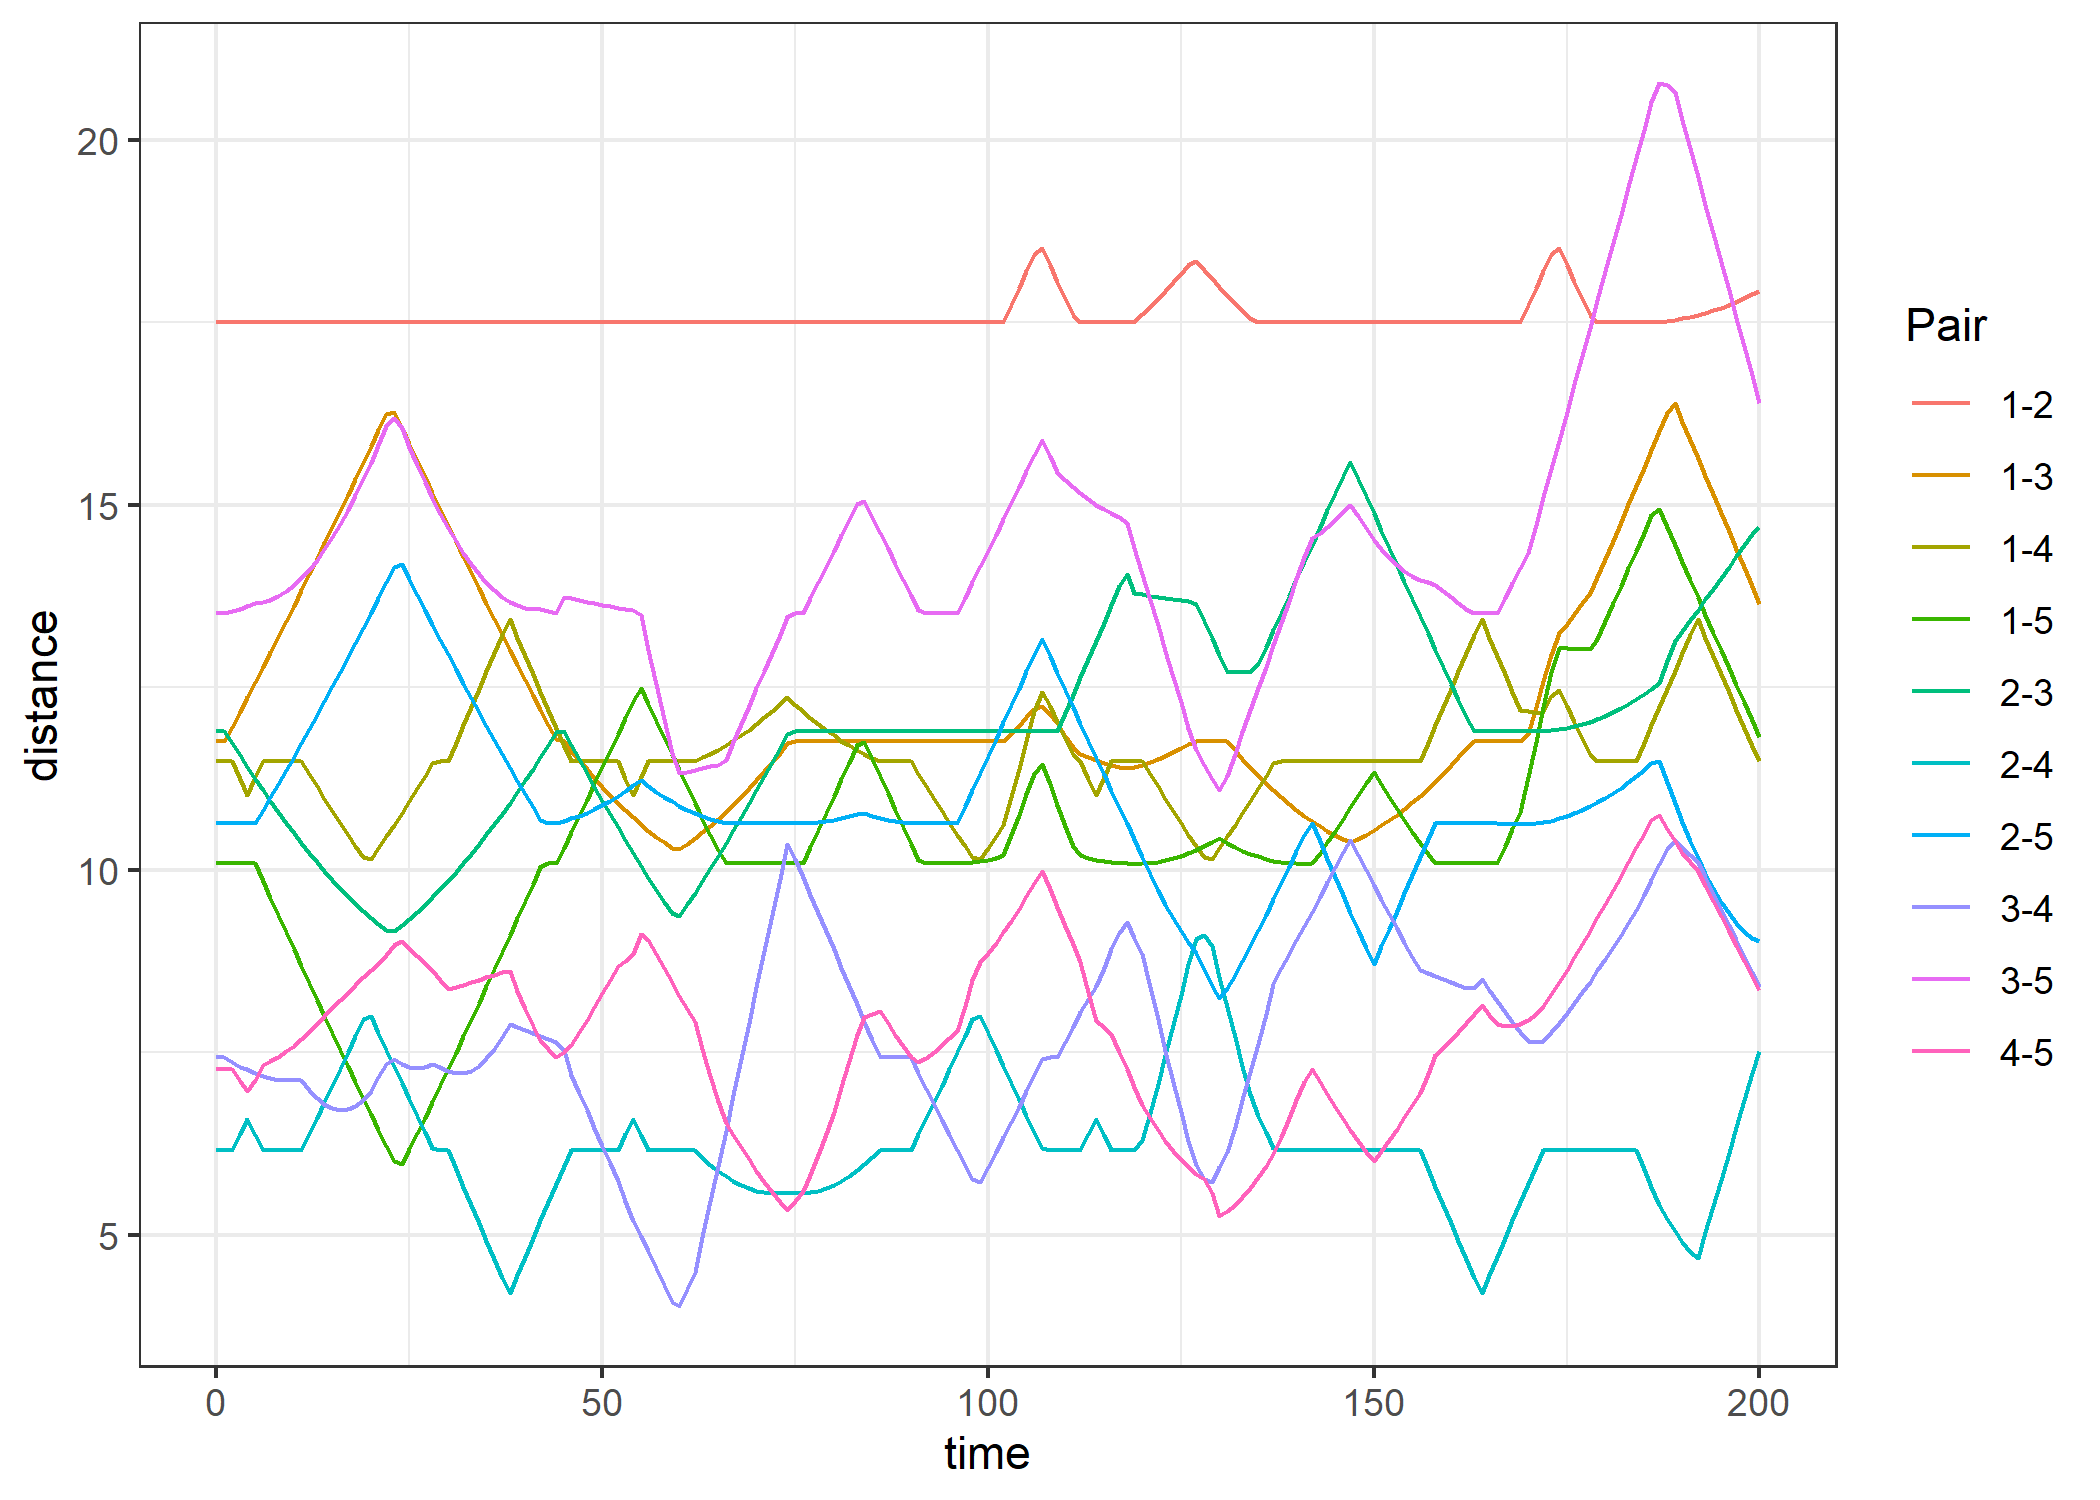
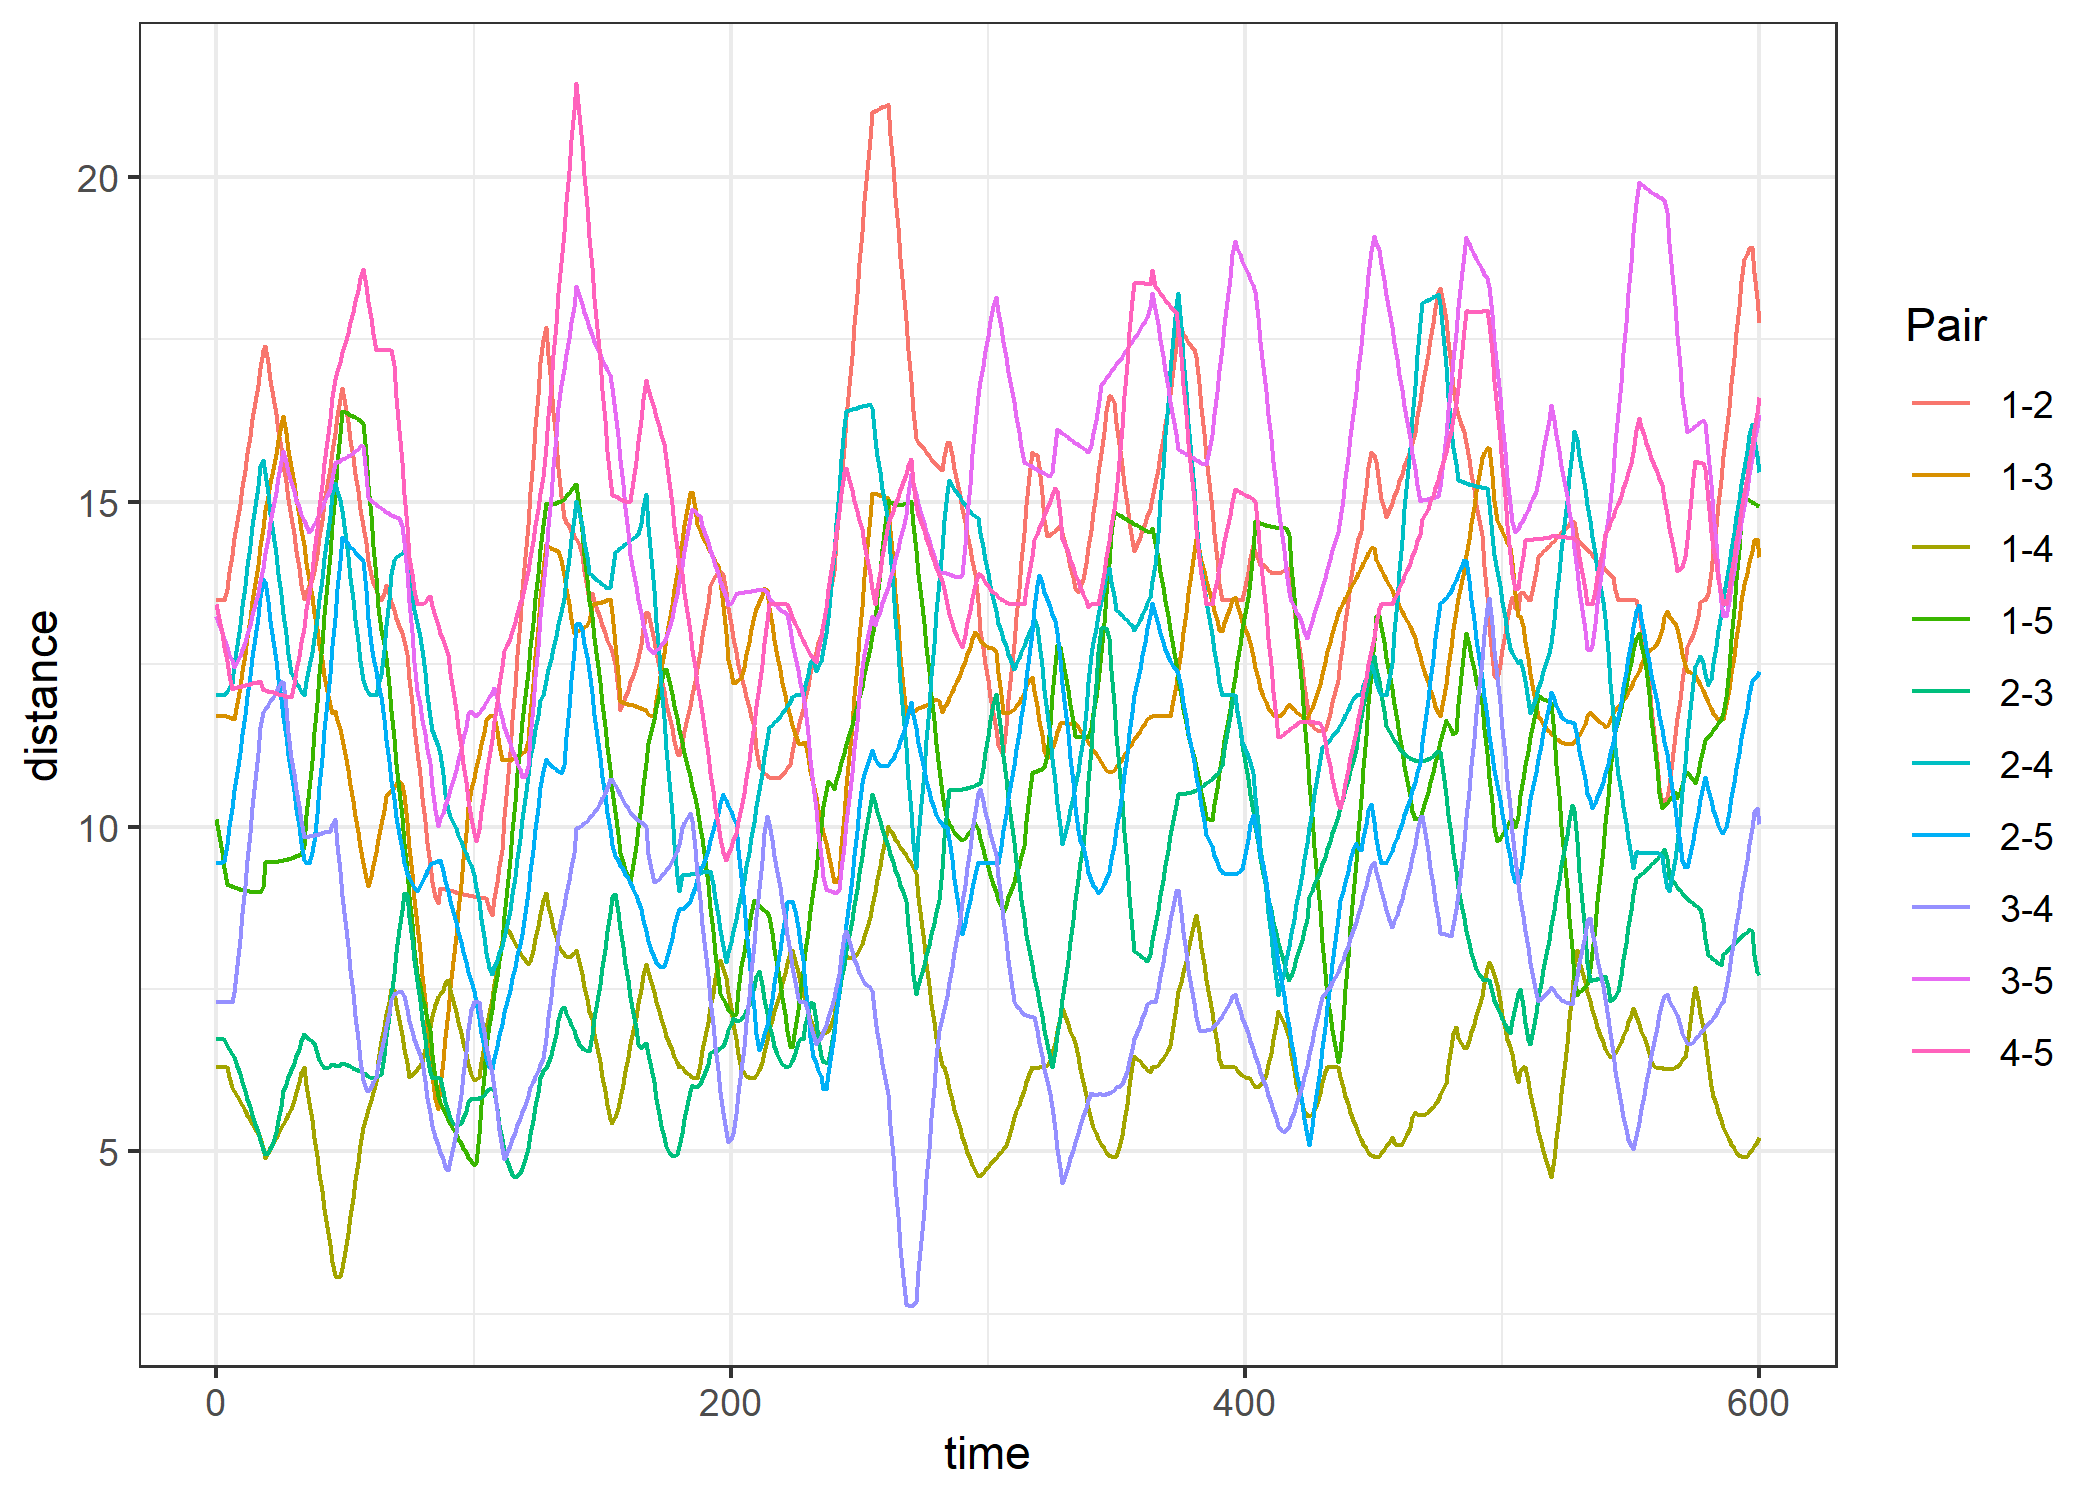
Bug fix for simulation function

diff --git a/README.md b/README.md
@@ -28,7 +28,7 @@ This is a basic example which shows how to generate a problem instance:
 library(zav)
 library(ggplot2)
 
-instance <- generate_2d_instance(no_of_points = 50)
+instance <- generate_2d_instance(no_of_points = 100)
 plot_point(instance = instance)
 ```
 
@@ -48,17 +48,120 @@ Here it is shown how you can make a simulation based on the solution
 just found:
 
 ``` r
+# solution = solution; seed = 1;n_replications = 1;flight = "zoned";max_dist = 1000000;LOS = 600;warmup = 0;speed_agent = .25;verbose = F
 simulation_result <- simulation(
   solution = solution,
   seed = 1,
   n_replications = 1,
   flight = "zoned",
   max_dist = 1000000,
-  LOS = 200,
+  LOS = 600,
   warmup = 0,
   speed_agent = .25,
   verbose = F
 )
+```
+
+``` r
+simulation_result$metrics[[1]]$response_time_performance
+#>    demand_id_handling response_time
+#> 1                  33            12
+#> 2                  37            17
+#> 3                  49            15
+#> 4                  88            16
+#> 5                  27            18
+#> 6                  32            12
+#> 7                  49            15
+#> 8                  12            11
+#> 9                  21            21
+#> 10                 19            13
+#> 11                 97             7
+#> 12                 73             9
+#> 13                  8            20
+#> 14                 19            12
+#> 15                 28            10
+#> 16                 37            17
+#> 17                 31            20
+#> 18                 28             9
+#> 19                 19            12
+#> 20                  7            16
+#> 21                 78             6
+#> 22                 16            13
+#> 23                 21            20
+#> 24                 55            14
+#> 25                 73             9
+#> 26                 13            10
+#> 27                 16            13
+#> 28                 65            14
+#> 29                 30            12
+#> 30                 55            14
+#> 31                 70             8
+#> 32                 75            16
+#> 33                 77            13
+#> 34                 48            14
+#> 35                 90            12
+#> 36                 46            15
+#> 37                 64             4
+#> 38                100            14
+#> 39                 14            13
+#> 40                 33            11
+#> 41                 89            17
+#> 42                 18            21
+#> 43                  2            13
+#> 44                 94            13
+#> 45                 81            11
+#> 46                 62            12
+#> 47                 87             6
+#> 48                 93            14
+#> 49                 56            22
+#> 50                 13            11
+#> 51                 88            15
+#> 52                 68             6
+#> 53                 35            12
+#> 54                 81            11
+#> 55                 86            19
+#> 56                 73             9
+#> 57                 49            14
+#> 58                 97             6
+#> 59                 21            21
+#> 60                 89            16
+#> 61                 58             8
+#> 62                 61             9
+#> 63                 24            21
+#> 64                 25             3
+#> 65                 39            16
+#> 66                 75            17
+#> 67                 49            14
+#> 68                 45            17
+#> 69                 96            15
+#> 70                 25             3
+#> 71                 47            25
+#> 72                 49            14
+#> 73                 32            11
+#> 74                 11            20
+#> 75                 99             4
+#> 76                 80            17
+#> 77                 27            19
+#> 78                 33            11
+#> 79                 68             5
+#> 80                 95             2
+#> 81                 64             4
+#> 82                  3             9
+#> 83                 94            13
+#> 84                 89            16
+#> 85                 46            15
+#> 86                 22             6
+#> 87                 81            10
+#> 88                 80            17
+#> 89                 68             6
+#> 90                 24            22
+#> 91                 30            13
+#> 92                 43             4
+#> 93                 97             7
+#> 94                 72             6
+#> 95                 49            14
+#> 96                 89            17
+#> 97                 90            13
 ```
 
 ``` r
